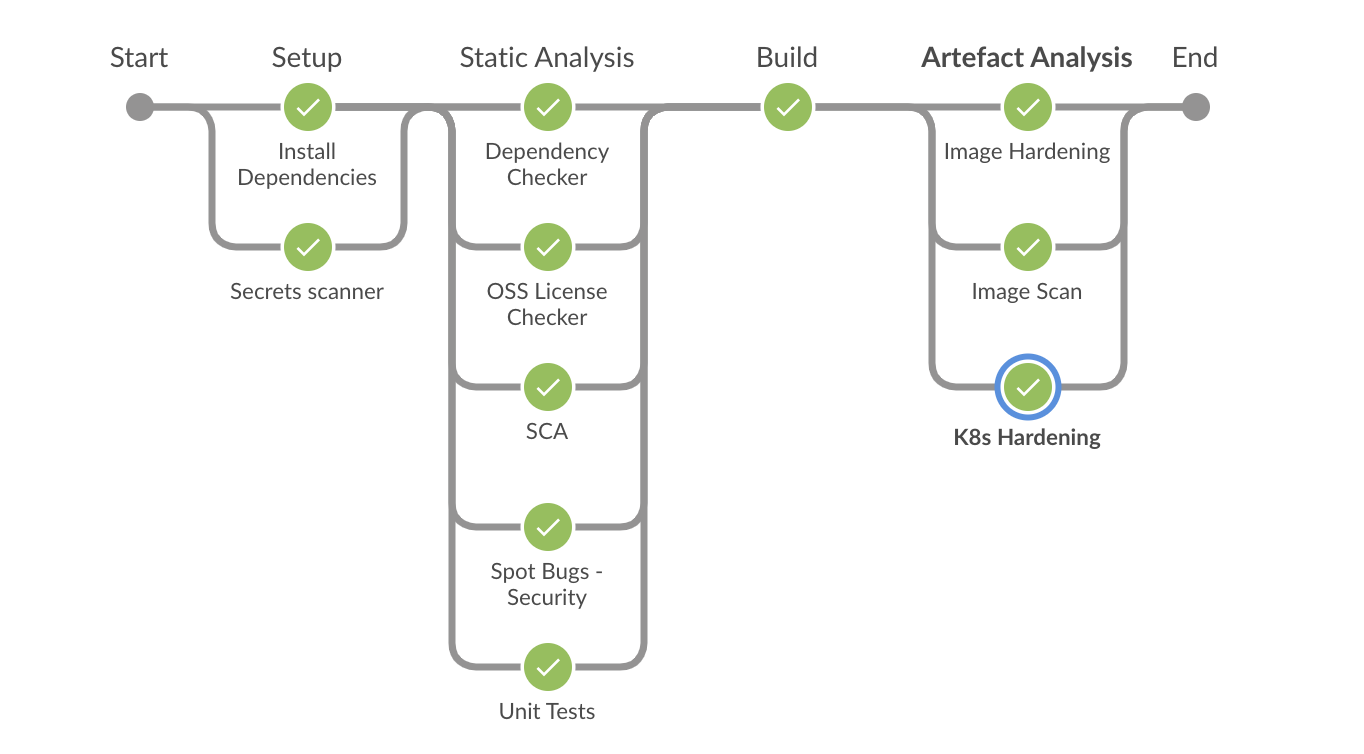
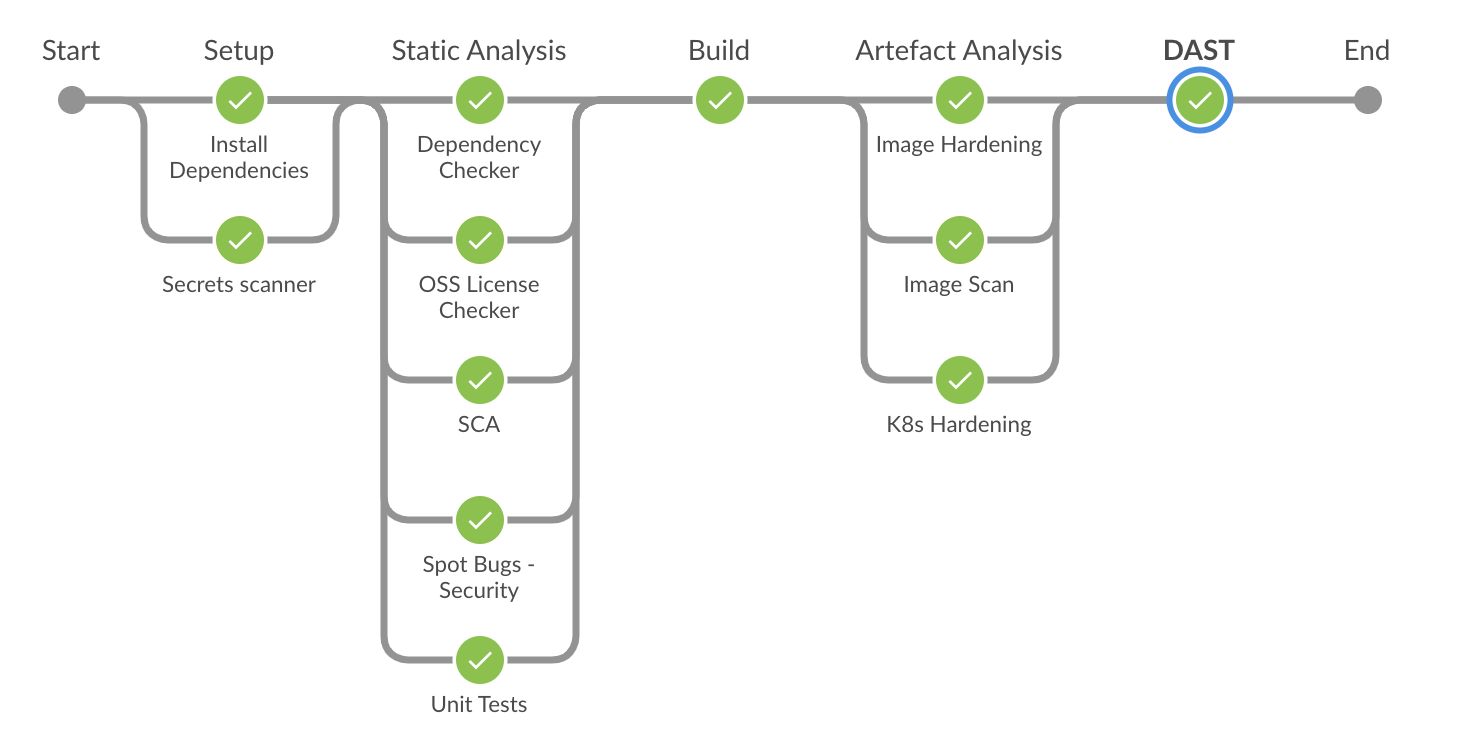
[Ramki] Update readme imgs to include DAST

Changed region(s): [[0.0308, 0.0309, 0.9545, 0.9583], [0.9238, 0.0618, 0.9545, 0.0927]]

diff --git a/README.md b/README.md
@@ -98,4 +98,4 @@ Refer the below screenshot for the stages in the pipeline
 | Image Hardening        | [Dockle](https://github.com/goodwithtech/dockle)                          |          |
 | K8s Hardening          | [KubeSec](https://kubesec.io/)                                            |          |
 | Image Malware scanning | [ClamAV](https://github.com/openbridge/clamav)                            | TODO     |
-| DAST                   | [OWASP Baseline Scan](https://www.zaproxy.org/docs/docker/baseline-scan/) | TODO     |
+| DAST                   | [OWASP Baseline Scan](https://www.zaproxy.org/docs/docker/baseline-scan/) |          |
